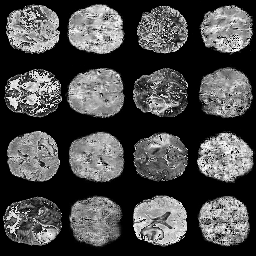
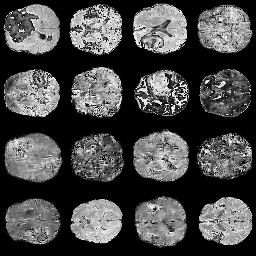
Final wgan in working state

diff --git a/wgan.py b/wgan.py
@@ -109,23 +109,23 @@ class Generator(nn.Module):
         super(Generator, self).__init__()
         self.layers = nn.Sequential(
             nn.ConvTranspose3d(nz, ngf * 8, 4, 1, 0),
-            nn.Conv3d(ngf * 8, ngf * 8, 3, 1, 1),
+            #nn.Conv3d(ngf * 8, ngf * 8, 3, 1, 1),
             nn.BatchNorm3d(ngf * 8),
             nn.ReLU(True),
             nn.ConvTranspose3d(ngf * 8, ngf * 4, 4, 2, 1),
-            nn.Conv3d(ngf * 4, ngf * 4, 3, 1, 1),
+            #nn.Conv3d(ngf * 4, ngf * 4, 3, 1, 1),
             nn.BatchNorm3d(ngf * 4),
             nn.ReLU(True),
             nn.ConvTranspose3d(ngf * 4, ngf * 2, 4, 2, 1),
-            nn.Conv3d(ngf * 2, ngf * 2, 3, 1, 1),
+            #nn.Conv3d(ngf * 2, ngf * 2, 3, 1, 1),
             nn.BatchNorm3d(ngf * 2),
             nn.ReLU(True),
             nn.ConvTranspose3d(ngf * 2, ngf, 4, 2, 1),
-            nn.Conv3d(ngf, ngf, 3, 1, 1),
+            #nn.Conv3d(ngf, ngf, 3, 1, 1),
             nn.BatchNorm3d(ngf),
             nn.ReLU(True),
             nn.ConvTranspose3d(ngf, nc, 4, 2, 1),
-            nn.Conv3d(nc, nc, 3, 1, 1),
+            #nn.Conv3d(nc, nc, 3, 1, 1),
         )
 
     def forward(self, input):
@@ -142,23 +142,23 @@ class Discriminator(nn.Module):
         super(Discriminator, self).__init__()
         self.layers = nn.Sequential(
             nn.Conv3d(nc, ndf, 4, 2, 1),
-            nn.Conv3d(ndf, ndf, 3, 1, 1),
+            #nn.Conv3d(ndf, ndf, 3, 1, 1),
             nn.InstanceNorm3d(ndf, affine=True),
             nn.LeakyReLU(0.2, inplace=True),
             nn.Conv3d(ndf, ndf * 2, 4, 2, 1),
-            nn.Conv3d(ndf * 2, ndf * 2, 3, 1, 1),
+            #nn.Conv3d(ndf * 2, ndf * 2, 3, 1, 1),
             nn.InstanceNorm3d(ndf * 2, affine=True),
             nn.LeakyReLU(0.2, inplace=True),
             nn.Conv3d(ndf * 2, ndf * 4, 4, 2, 1),
-            nn.Conv3d(ndf * 4, ndf * 4, 3, 1, 1),
+            #nn.Conv3d(ndf * 4, ndf * 4, 3, 1, 1),
             nn.InstanceNorm3d(ndf * 4, affine=True),
             nn.LeakyReLU(0.2, inplace=True),
             nn.Conv3d(ndf * 4, ndf * 8, 4, 2, 1),
-            nn.Conv3d(ndf * 8, ndf * 8, 3, 1, 1),
+            #nn.Conv3d(ndf * 8, ndf * 8, 3, 1, 1),
             nn.InstanceNorm3d(ndf * 8, affine=True),
             nn.LeakyReLU(0.2, inplace=True),
             nn.Conv3d(ndf * 8, 1, 4, 1, 0),
-            nn.Conv3d(1, 1, 3, 1, 1),
+            #nn.Conv3d(1, 1, 3, 1, 1),
         )
 
     def forward(self, input):

diff --git a/visual_test.py b/visual_test.py
@@ -21,18 +21,23 @@ class Generator(nn.Module):
         super(Generator, self).__init__()
         self.layers = nn.Sequential(
             nn.ConvTranspose3d(nz, ngf * 8, 4, 1, 0),
+            #nn.Conv3d(ngf * 8, ngf * 8, 3, 1, 1),
             nn.BatchNorm3d(ngf * 8),
             nn.ReLU(True),
             nn.ConvTranspose3d(ngf * 8, ngf * 4, 4, 2, 1),
+            #nn.Conv3d(ngf * 4, ngf * 4, 3, 1, 1),
             nn.BatchNorm3d(ngf * 4),
             nn.ReLU(True),
             nn.ConvTranspose3d(ngf * 4, ngf * 2, 4, 2, 1),
+            #nn.Conv3d(ngf * 2, ngf * 2, 3, 1, 1),
             nn.BatchNorm3d(ngf * 2),
             nn.ReLU(True),
             nn.ConvTranspose3d(ngf * 2, ngf, 4, 2, 1),
+            #nn.Conv3d(ngf, ngf, 3, 1, 1),
             nn.BatchNorm3d(ngf),
             nn.ReLU(True),
             nn.ConvTranspose3d(ngf, nc, 4, 2, 1),
+            #nn.Conv3d(nc, nc, 3, 1, 1),
         )
 
     def forward(self, input):
@@ -40,7 +45,7 @@ class Generator(nn.Module):
         return torch.tanh(out)
 
 netG = Generator().to(device)
-netG.load_state_dict(torch.load("gantrial148/gan_models/gen_at_e5000.pt"))
+netG.load_state_dict(torch.load("gantrial148/gan_models/gen_at_e4950.pt"))
 
 data = torch.load("TRIMMED64.pt")
 data = data.permute(1, 0, 2, 3, 4)[:, 0:2, :, :, :]
@@ -63,7 +68,7 @@ for i in range(8):
     b[1] = 0
     b = b[:, 32, :, :]
     image_list.append(b)
-#random.shuffle(image_list)
+random.shuffle(image_list)
 
 def save_image(tensor, filename):
     ndarr = tensor.mul(256).clamp(0, 255).int().byte().cpu()
